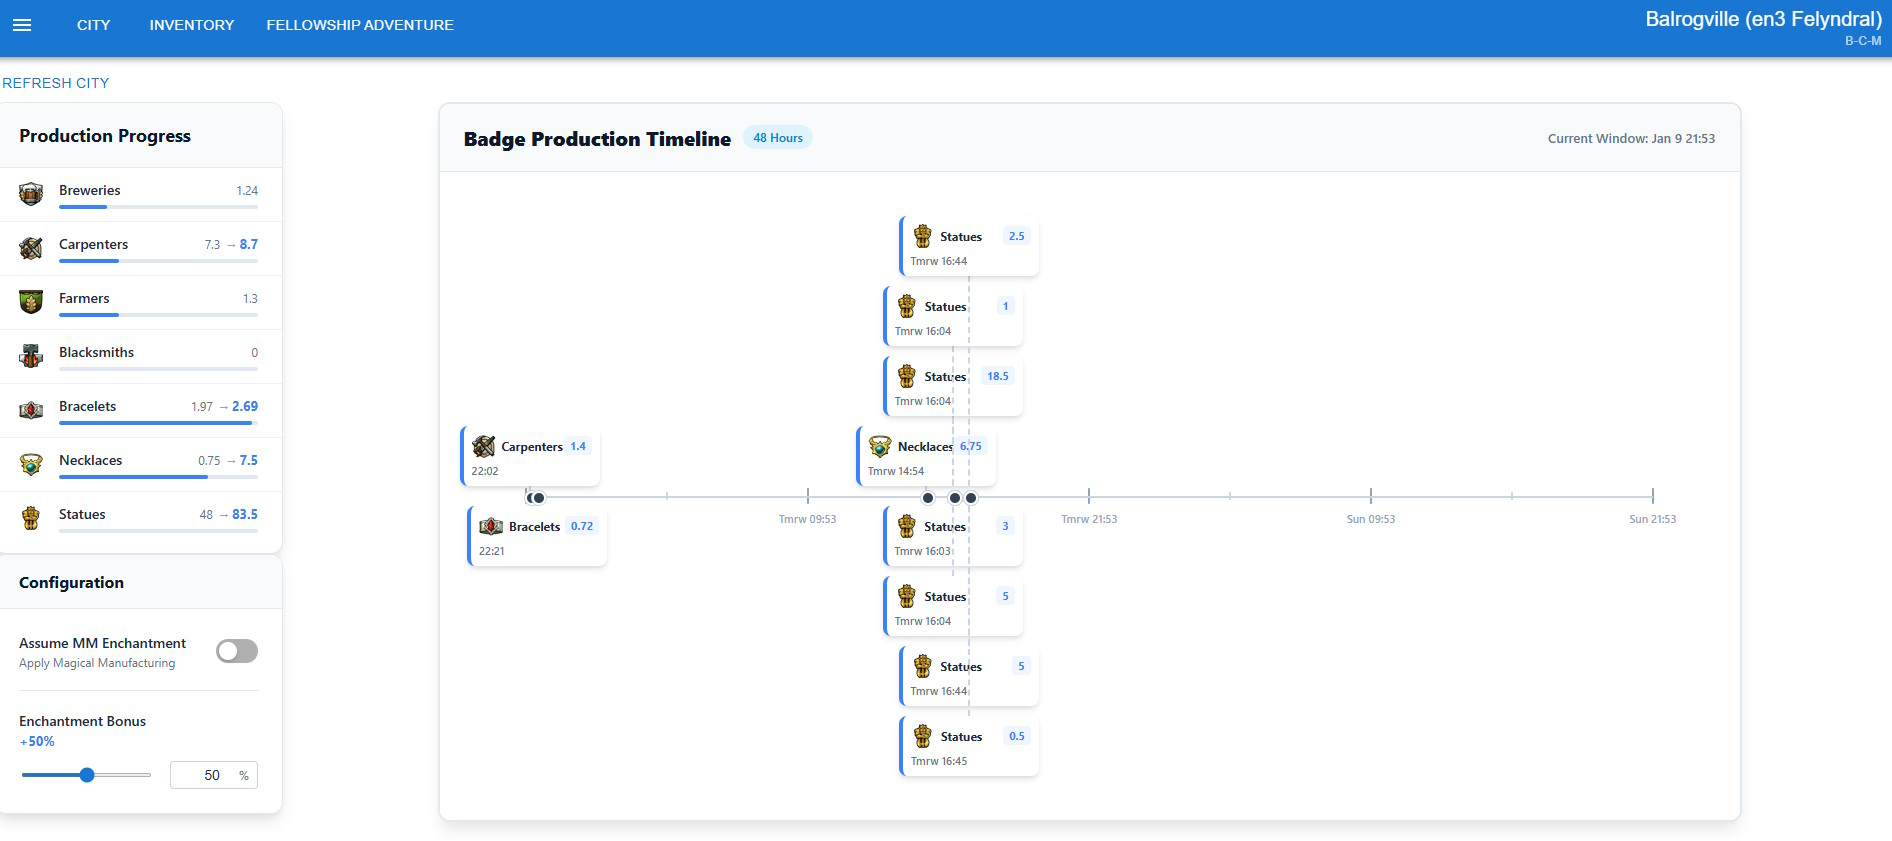
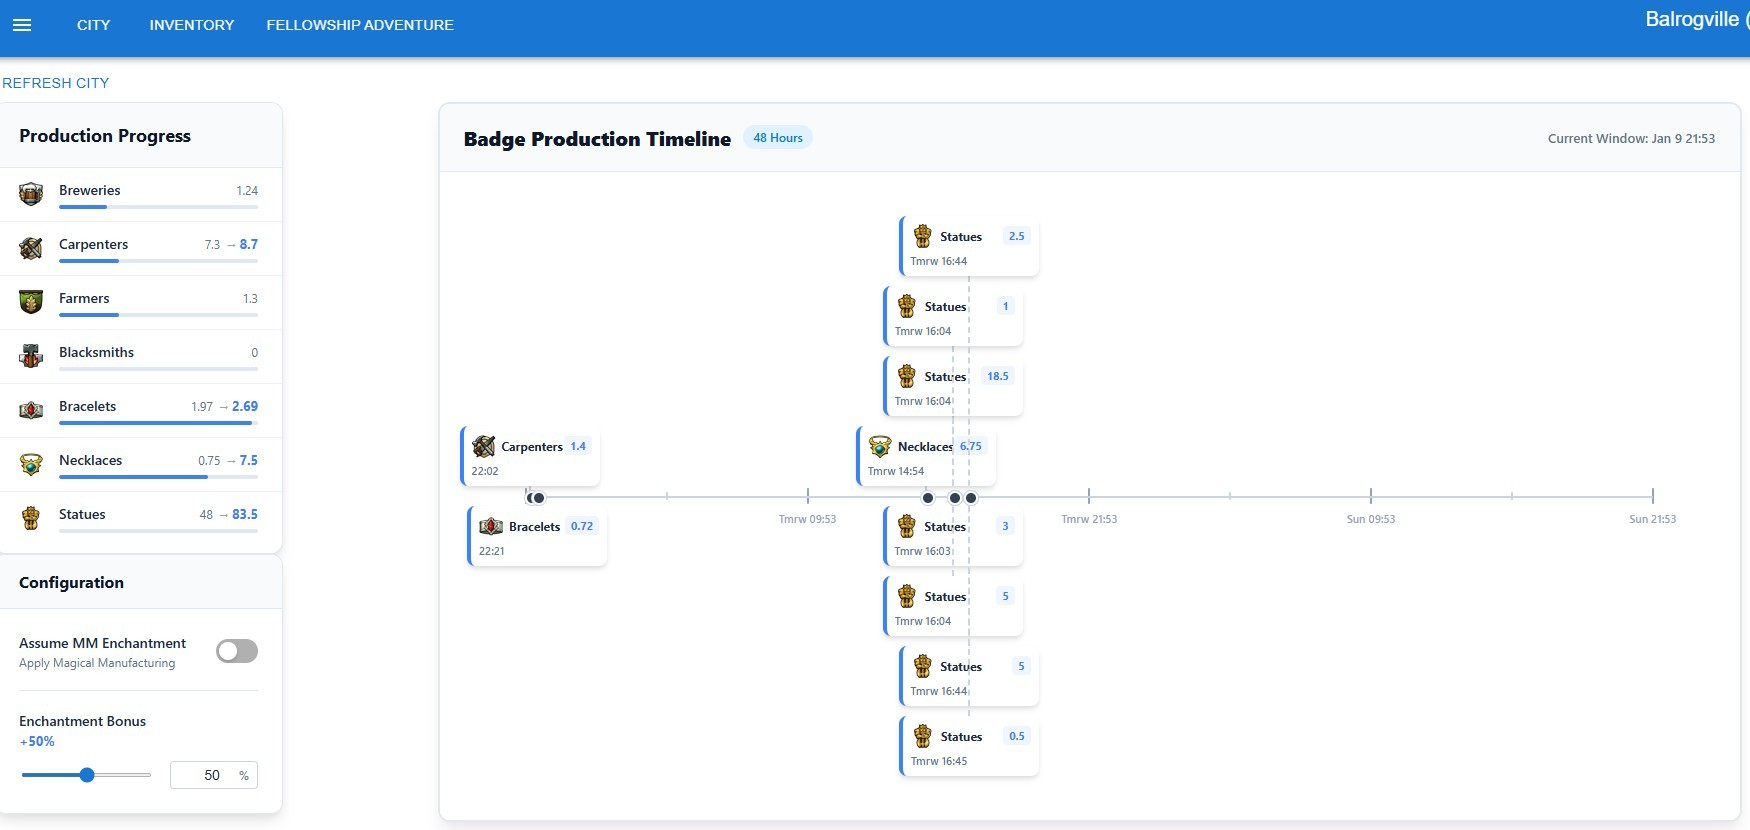
docs: give every screenshot on the site the same width and show the build dialog's pictures

diff --git a/docs/index.html b/docs/index.html
@@ -305,6 +305,11 @@
         order: 2;
       }
 
+      /* Mirror the columns too, so a screenshot on the right is as wide as one on the left. */
+      .showcase:nth-child(odd):not(.spotlight) {
+        grid-template-columns: 1fr 1.25fr;
+      }
+
       .spotlight.showcase .shot {
         order: 0;
       }
@@ -554,7 +559,8 @@
       }
 
       @media (max-width: 900px) {
-        .showcase {
+        .showcase,
+        .showcase:nth-child(odd):not(.spotlight) {
           grid-template-columns: 1fr;
           gap: 1.75rem;
         }
@@ -685,9 +691,9 @@
               <span class="feature-icon"><i class="fas fa-route"></i></span>
               <h3>Move Plan <span class="badge-new">NEW IN 11.0</span></h3>
               <p>
-                Arrange your city in the planner, then choose City &#9656; Send Move Plan to Game. The helper's Plan tab
-                (<kbd>Alt+C</kbd>, <kbd>L</kbd>) lists the moves that turn your city into that layout, in an order the
-                game will accept.
+                Arrange your city in the planner, then choose City &#9656; Send Move Plan to Game. In the game, press
+                <kbd>Alt+C</kbd> then <kbd>L</kbd>: the helper's Plan tab lists the moves that turn your city into that
+                layout, in an order the game will accept.
               </p>
               <ul class="points">
                 <li>
@@ -770,9 +776,10 @@
               <span class="feature-icon"><i class="fas fa-hammer"></i></span>
               <h3>Build Menu</h3>
               <p>
-                Add buildings to your plan from a categorized catalog. Plan for future chapters before you even unlock
-                the buildings.
+                Add buildings to your plan from a categorized catalog, each shown with its picture from the game. Pick a
+                level and the picture follows it.
               </p>
+              <p>Plan for future chapters before you even unlock the buildings.</p>
             </div>
           </div>
         </div>
